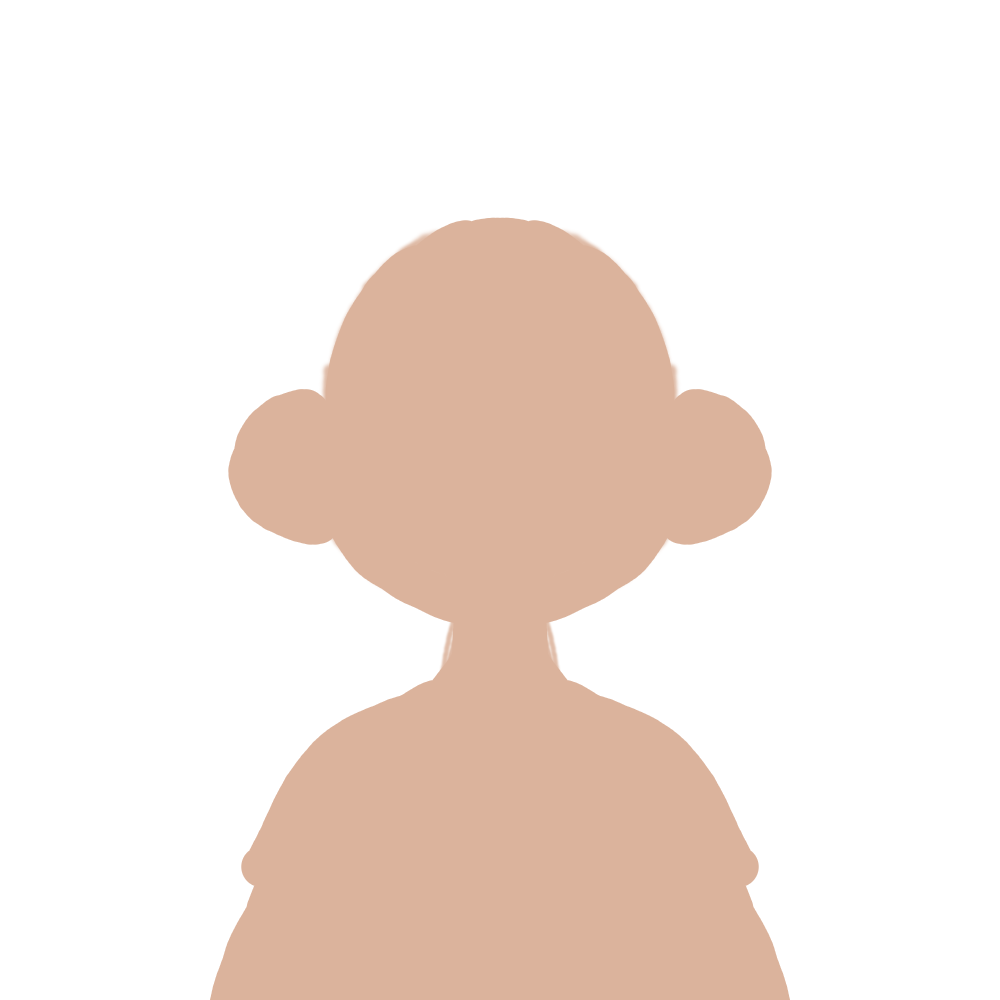
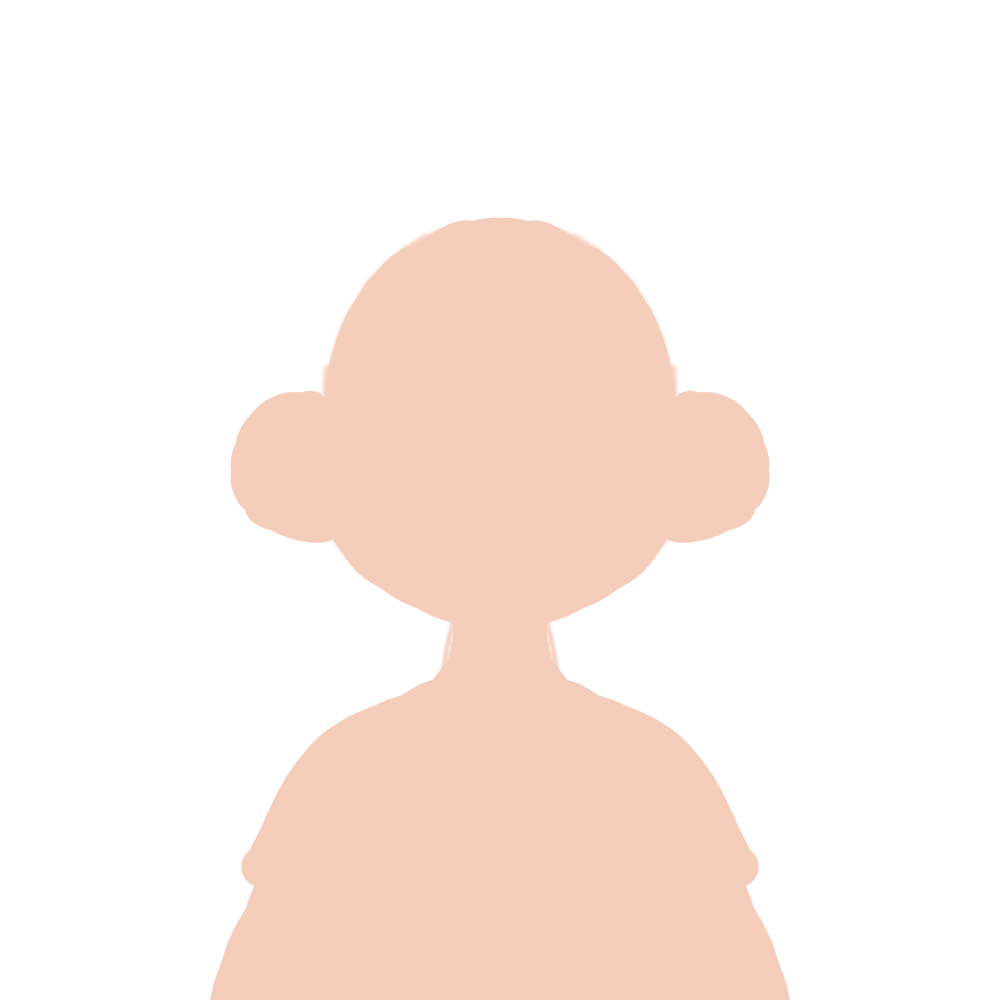
Ajustar descripcion de los personajes

Changed region(s): [[0.186, 0.217, 0.806, 1.0]]

diff --git a/src/components/CharacterCustomization.jsx b/src/components/CharacterCustomization.jsx
@@ -9,12 +9,12 @@ const CharacterCustomization = ({ onCharacterUpdate, nextStep, prevStep, charact
     age: '3',
     relationship: 'hija',
     role: 'protagonist',
-    skin: 'skin1',
-    hair: 'hair1',
+    skin: 'skin3',
+    hair: 'hair3',
     eyes: 'eyes1',
-    eyebrows: 'kid_eyebrow_1_color_1',
+    eyebrows: 'kid_eyebrow_2_color_4',
     nose: 'kid_nose_1',
-    mouth: 'kid_mouth_1',
+    mouth: 'kid_mouth_2',
     image: ''  // Añadir campo para la URL de la imagen
   };
 

diff --git a/src/components/CharacterSummary.jsx b/src/components/CharacterSummary.jsx
@@ -74,7 +74,6 @@ const CharacterSummary = ({ characters = [], nextStep, prevStep, navigateTo, rem
       <div className="buttons">
         <button className="button secondary" onClick={prevStep}>Añadir más Personajes</button>
         <button className="button" onClick={nextStep}>Continuar</button>
-        <button className="button" onClick={() => navigateTo('home')}>Volver al Inicio</button>
       </div>
     </div>
   );
